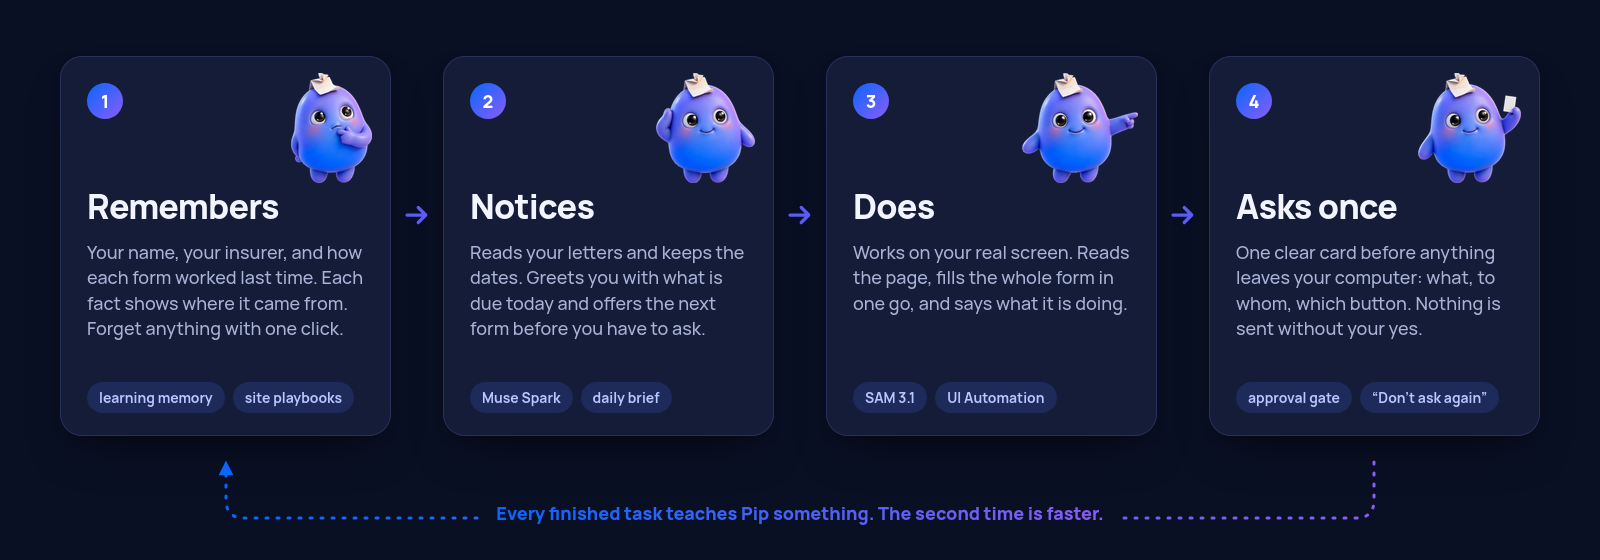
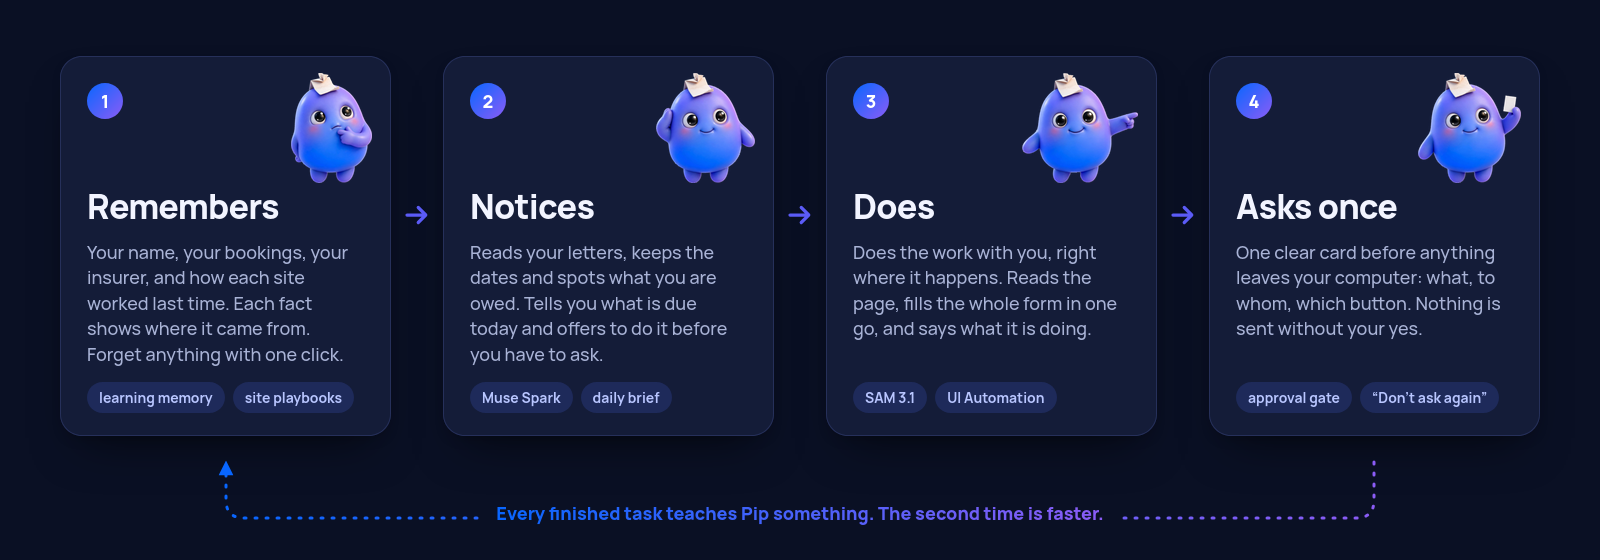
README images: claim story

Changed region(s): [[0.0312, 0.425, 0.2188, 0.6679], [0.5312, 0.425, 0.7188, 0.6071], [0.2812, 0.425, 0.4688, 0.6679]]

diff --git a/design/readme/src/how.html b/design/readme/src/how.html
@@ -46,21 +46,21 @@
       <div class="num">1</div>
       <img class="pip" src="../poses/think.png" alt="">
       <h2>Remembers</h2>
-      <p>Your name, your insurer, and how each form worked last time. Each fact shows where it came from. Forget anything with one click.</p>
+      <p>Your name, your bookings, your insurer, and how each site worked last time. Each fact shows where it came from. Forget anything with one click.</p>
       <div class="chips"><span class="chip">learning memory</span><span class="chip">site playbooks</span></div>
     </div>
     <div class="card">
       <div class="num">2</div>
       <img class="pip" src="../poses/listen.png" alt="">
       <h2>Notices</h2>
-      <p>Reads your letters and keeps the dates. Greets you with what is due today and offers the next form before you have to ask.</p>
+      <p>Reads your letters, keeps the dates and spots what you are owed. Tells you what is due today and offers to do it before you have to ask.</p>
       <div class="chips"><span class="chip">Muse Spark</span><span class="chip">daily brief</span></div>
     </div>
     <div class="card">
       <div class="num">3</div>
       <img class="pip" src="../poses/point.png" alt="">
       <h2>Does</h2>
-      <p>Works on your real screen. Reads the page, fills the whole form in one go, and says what it is doing.</p>
+      <p>Does the work with you, right where it happens. Reads the page, fills the whole form in one go, and says what it is doing.</p>
       <div class="chips"><span class="chip">SAM 3.1</span><span class="chip">UI Automation</span></div>
     </div>
     <div class="card">

diff --git a/design/readme/src/banner.html b/design/readme/src/banner.html
@@ -140,14 +140,14 @@
       <div class="lab"></div>
       <div class="field">Erika Beispiel<span class="check">✓</span></div>
       <div class="lab"></div>
-      <div class="field active">7654321<span class="caret"></span></div>
+      <div class="field active">Booking BX4H2K<span class="caret"></span></div>
     </div>
-    <div class="send">Send</div>
+    <div class="send">Send claim</div>
   </div>
 
   <div class="bubble">
-    <p>Ready to send this to your university?</p>
-    <div class="btns"><span class="y">Yes</span><span class="n">Not yet</span></div>
+    <p>Your flight landed 4 hours late. You may be owed €400. Claim it now?</p>
+    <div class="btns"><span class="y">Yes, claim it</span><span class="n">Not now</span></div>
   </div>
 
   <div class="pip-shadow"></div>

diff --git a/README.md b/README.md
@@ -1,7 +1,7 @@
 <p align="center">
   <picture>
     <source media="(prefers-color-scheme: dark)" srcset="design/readme/banner-dark.png">
-    <img src="design/readme/banner.png" alt="Pip, a small blue helper, points at a web form and asks: Ready to send this to your university? Headline: Everyone is a beginner at something. Pip makes sure it doesn't cost you." width="100%">
+    <img src="design/readme/banner.png" alt="Pip, a small blue helper, points at a claim form and asks: Your flight landed 4 hours late. You may be owed €400. Claim it now? Headline: Everyone is a beginner at something. Pip makes sure it doesn't cost you." width="100%">
   </picture>
 </p>
 
